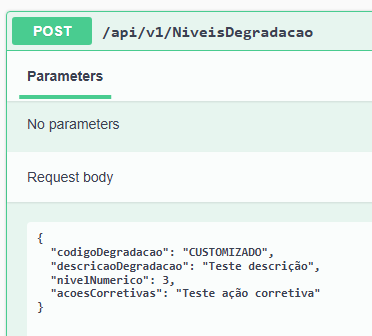
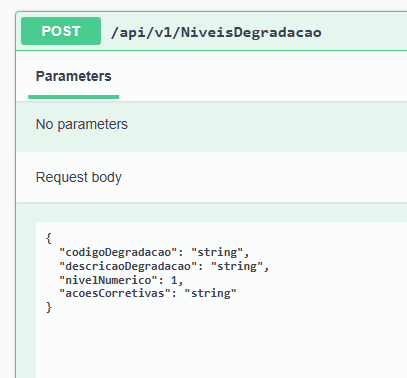
update 9 - readme

diff --git a/README.md b/README.md
@@ -245,39 +245,39 @@ Esta seção demonstra o uso prático dos principais endpoints da API WaterWise,
 **Corpo da Requisição:**
 ```json
 {
-  "codigoDegradacao": "MODERADO",
-  "descricaoDegradacao": "Solo com degradação moderada necessitando atenção",
-  "nivelNumerico": 3,
-  "acoesCorretivas": "Implementar práticas de conservação e monitoramento regular"
+  "codigoDegradacao": "string",
+  "descricaoDegradacao": "string",
+  "nivelNumerico": 1,
+  "acoesCorretivas": "string"
 }
 ```
 
 **Response Esperado (201 Created):**
 ```json
 {
-  "id": 6,
-  "codigoDegradacao": "MODERADO",
-  "descricaoDegradacao": "Solo com degradação moderada necessitando atenção",
-  "nivelNumerico": 3,
-  "acoesCorretivas": "Implementar práticas de conservação e monitoramento regular",
+  "id": 26,
+  "codigoDegradacao": "CUSTOMIZADO",
+  "descricaoDegradacao": "teste desc",
+  "nivelNumerico": 5,
+  "acoesCorretivas": "teste ações",
   "links": [
     {
-      "href": "/api/v1/niveisdegradacao/6",
+      "href": "/api/v1/NiveisDegradacao/25",
       "rel": "self",
       "method": "GET"
     },
     {
-      "href": "/api/v1/niveisdegradacao/6",
+      "href": "/api/v1/NiveisDegradacao/25",
       "rel": "update",
       "method": "PUT"
     },
     {
-      "href": "/api/v1/niveisdegradacao/6",
+      "href": "/api/v1/NiveisDegradacao/25",
       "rel": "delete",
       "method": "DELETE"
     },
     {
-      "href": "/api/v1/niveisdegradacao",
+      "href": "/api/v1/NiveisDegradacao",
       "rel": "collection",
       "method": "GET"
     }
@@ -285,13 +285,15 @@ Esta seção demonstra o uso prático dos principais endpoints da API WaterWise,
 }
 ```
 
-**Print da Requisição:**
+**Prints da Requisição:**
 
 ![req-post-niveisdegradacao.png](./imgs/req-post-niveisdegradacao.png)
-![res-post-niveisdegradacao.png.png](./imgs/res-post-niveisdegradacao.png.png)
+![res-post-niveisdegradacao.png](./imgs/res-post-niveisdegradacao.png)
 ---
 
 #### 🗑 3.2. DELETE: Excluir Nível de Degradação
+
+Neste endpoint vamos deletar o Nivel degradação que acabamos de criar (de id 26).
 
 **Endpoint:** `DELETE /api/v1/niveisdegradacao/6`
 
@@ -310,11 +312,10 @@ Body: (vazio)
 }
 ```
 
-**Print da Requisição:**
-```
-[Espaço reservado para print da exclusão do nível de degradação]
-```
+**Prints da Requisição:**
 
+![req-delete-niveisdegradacao](./imgs/req-delete-niveisdegradacao.png)
+![res-delete-niveisdegradacao](./imgs/res-delete-niveisdegradacao.png)
 ---
 
 #### ✏ 3.3. PUT: Atualizar Produtor Rural
@@ -779,9 +780,3 @@ Para debugging, ative logs detalhados no `appsettings.Development.json`:
   }
 }
 ```
-
-## 📞 Contato
-
-- **Equipe WaterWise**: contato@waterwise.com
-- **Issues**: [GitHub Issues](https://github.com/waterwise-team/waterwise-api/issues)
-- **Documentação**: [Wiki do Projeto](https://github.com/waterwise-team/waterwise-api/wiki)
